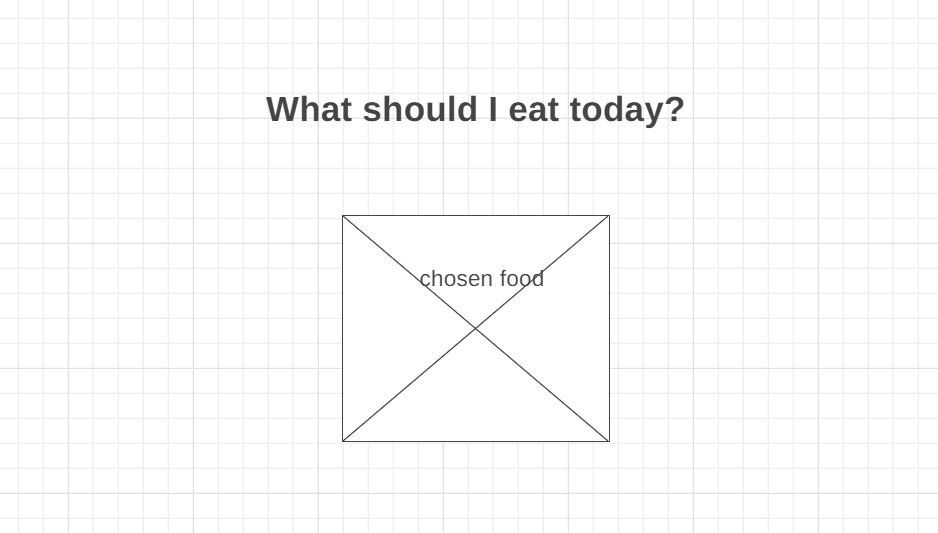
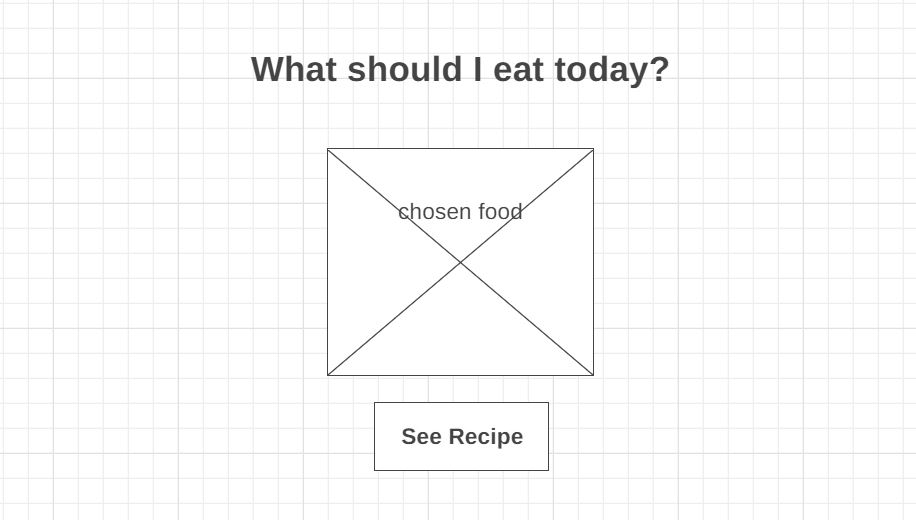
update readme.md

diff --git a/README.md b/README.md
@@ -1,1 +1,97 @@
-# what-should-I-eat-today
+# what should I eat today?
+
+> ### This web will help peaple to decide what to eat
+
+**Try out here:** https://chonnikan-aue-what-should-i-eat-today.netlify.app/
+
+## Technologies used
+
+- **For designing wire frames:** [wireframe.cc](https://wireframe.cc/)
+
+- **For web development:** React, [React Bootstrap v2.6.0 (Bootstrap 5.2)](https://react-bootstrap.github.io/getting-started/introduction)
+
+- **For API:**
+
+1. **To random and get meal information:** [TheMealDB](https://www.themealdb.com/api.php)
+
+2. **To get country code by nationality name:** [G Adventures API](https://developers.gadventures.com/docs/searching.html#searching)
+
+3. **To get flag from country code:** [REST Countries](https://restcountries.com/#api-endpoints-v3-code)
+
+- **For connect API:** Axios
+
+- **For deployment:** Netlify
+
+## Installation instructions
+
+I recommend lastest version of Chrome browser in desktop, but I designed the responsive web for mobile devices as well.
+
+## Planning
+
+> ### User Stories
+
+- As a user, I don't know what to eat today, so I random a food from api.
+
+- As a user, I think maybe I don't want to eat the first random food, so I will choose from 8 random foods and the last food will be chosen
+
+- As a user, I think it would be nice if the web show me the recipe, so I can cook myself
+
+- As a user, maybe I have the category of food that I want to eat but I don't know what exactly menu, so I will make it random from the category
+
+> ### MVP Goals
+
+1. Can random food from API
+
+2. Can choose food until get the last one
+
+3. Show recipe from the chosen food
+
+4. Show youtube link that go to the recipe video (if it have)
+
+> ### Stretch Goals
+
+**First Priority**
+
+- Show embeded recipe video instead of youtube link (if it have)
+
+**Second Priority**
+
+- Random food for specific category ([14 categories](https://www.themealdb.com/api/json/v1/1/categories.php))
+
+- Random food from specific country ([26 countries, not including `unknown`](https://www.themealdb.com/api/json/v1/1/list.php?a=list)
+
+**Third Priority**
+
+- Can save the favorite recipe, using LocalStorage
+
+## Design Process
+
+> ### Wire Frames
+
+**1. First page:**
+
+**2. Categories page:** when user click `I want to eat...` button from the first page
+
+**3. Random food page:** when user click `Random me anything!` button from the first page or click a category/country from the categories page
+
+**4. Recipe page:** when user click `See Recipe` button after a food is left the last one
+
+## Screenshots
+
+**1. First page:**
+
+**2. Categories page:** when user click `I want to eat...` button from the first page
+
+**3. Random food page:** when user click `Random me anything!` button from the first page or click a category/country from the categories page
+
+**4. Recipe page:** when user click `See Recipe` button after a food is left the last one
+
+**5. Favorites Page:** when user click `My favorites ❤` button from the first page
+
+> ### Want to know more? [Finds out here!](https://chonnikan-aue-what-should-i-eat-today.netlify.app/)
+
+## Room for Improvement
+
+- Store favorite food in Database
+
+- Show nearby restuarants that have this chosen food or have this food category
